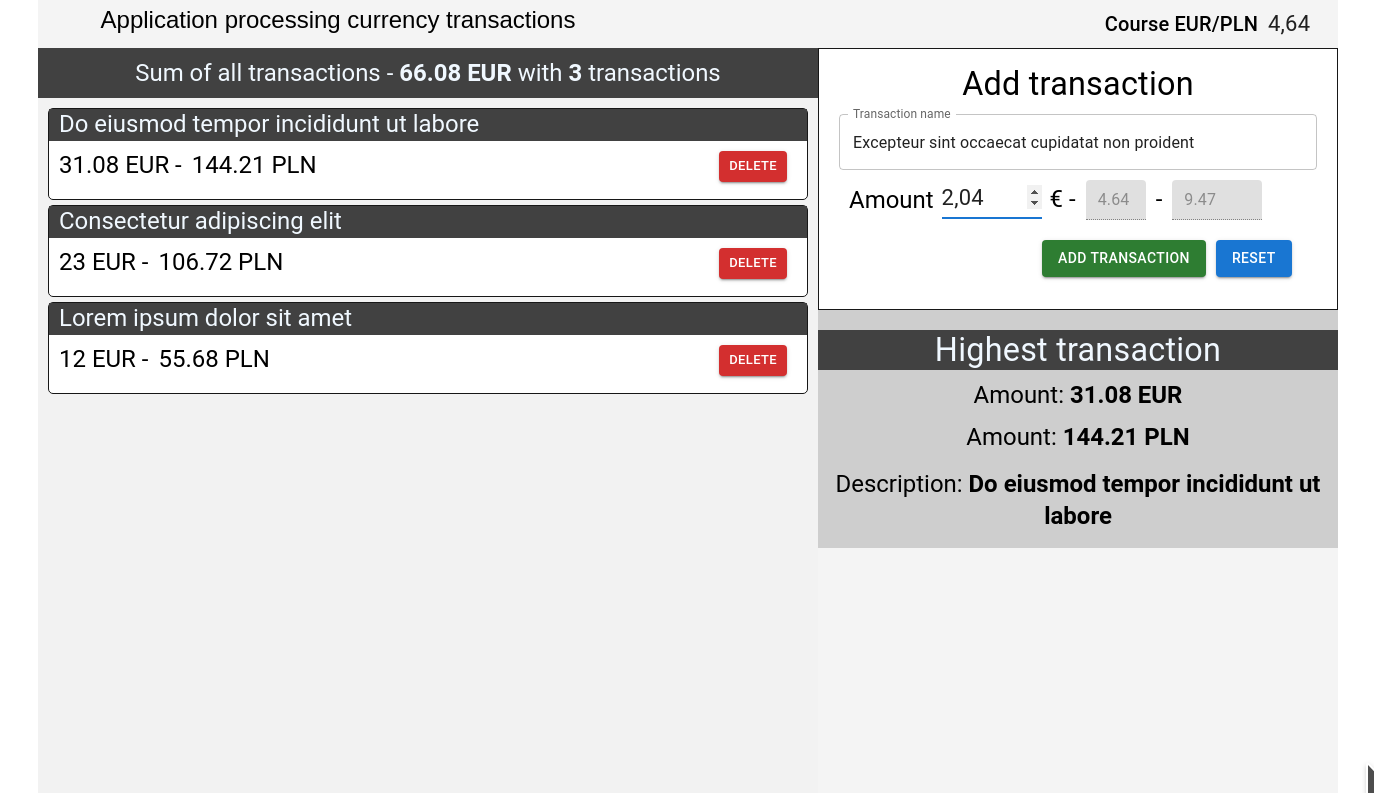
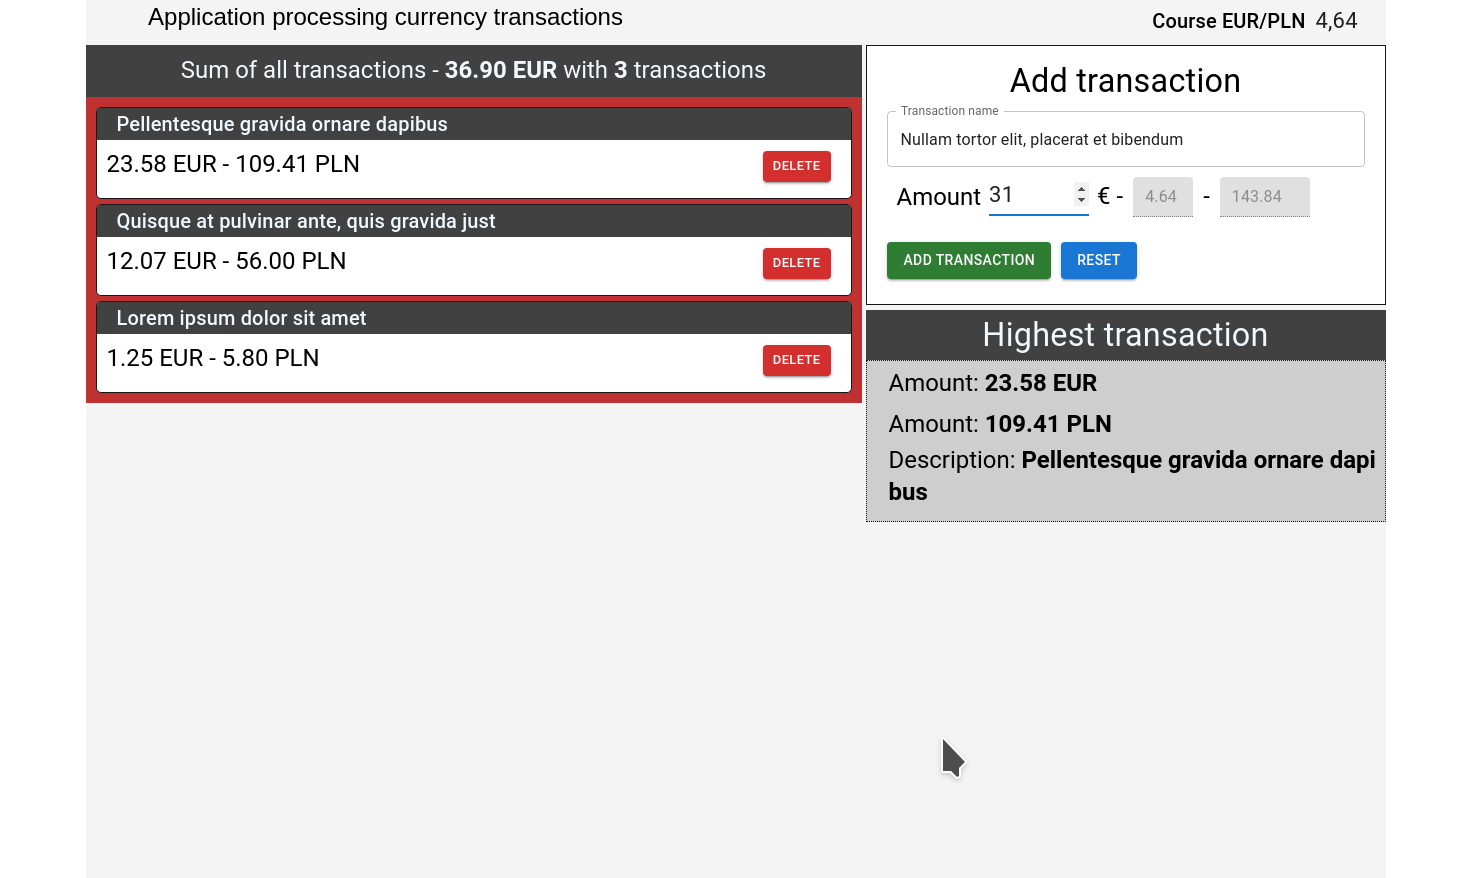
Fix decimal numbers in AddTransaction input

diff --git a/src/components/transactions/AddTransaction/AddTransaction.tsx b/src/components/transactions/AddTransaction/AddTransaction.tsx
@@ -44,7 +44,7 @@ function AddTransaction() {
   };
 
   const handleChangeAmount = (event: any) => {
-    const numberRegex = /^[0-9\b]+$/;
+    const numberRegex = /^\d*\.?\d*$/;
     if (event.target.value === '' || numberRegex.test(event.target.value)) {
       setAmount(event.target.value);
     }

diff --git a/README.md b/README.md
@@ -12,3 +12,13 @@
 * Eslint 
 * Material-ui
 * Css
+
+## What app can do?
+    
+* Displaying and defining the currency converter
+* Adding currency transactions
+* Displays a list of previous transactions
+* Deleting transactions
+* Adding up all items
+* Finding the largest transaction
+* Download the latest eur/pln course from the NBP API
